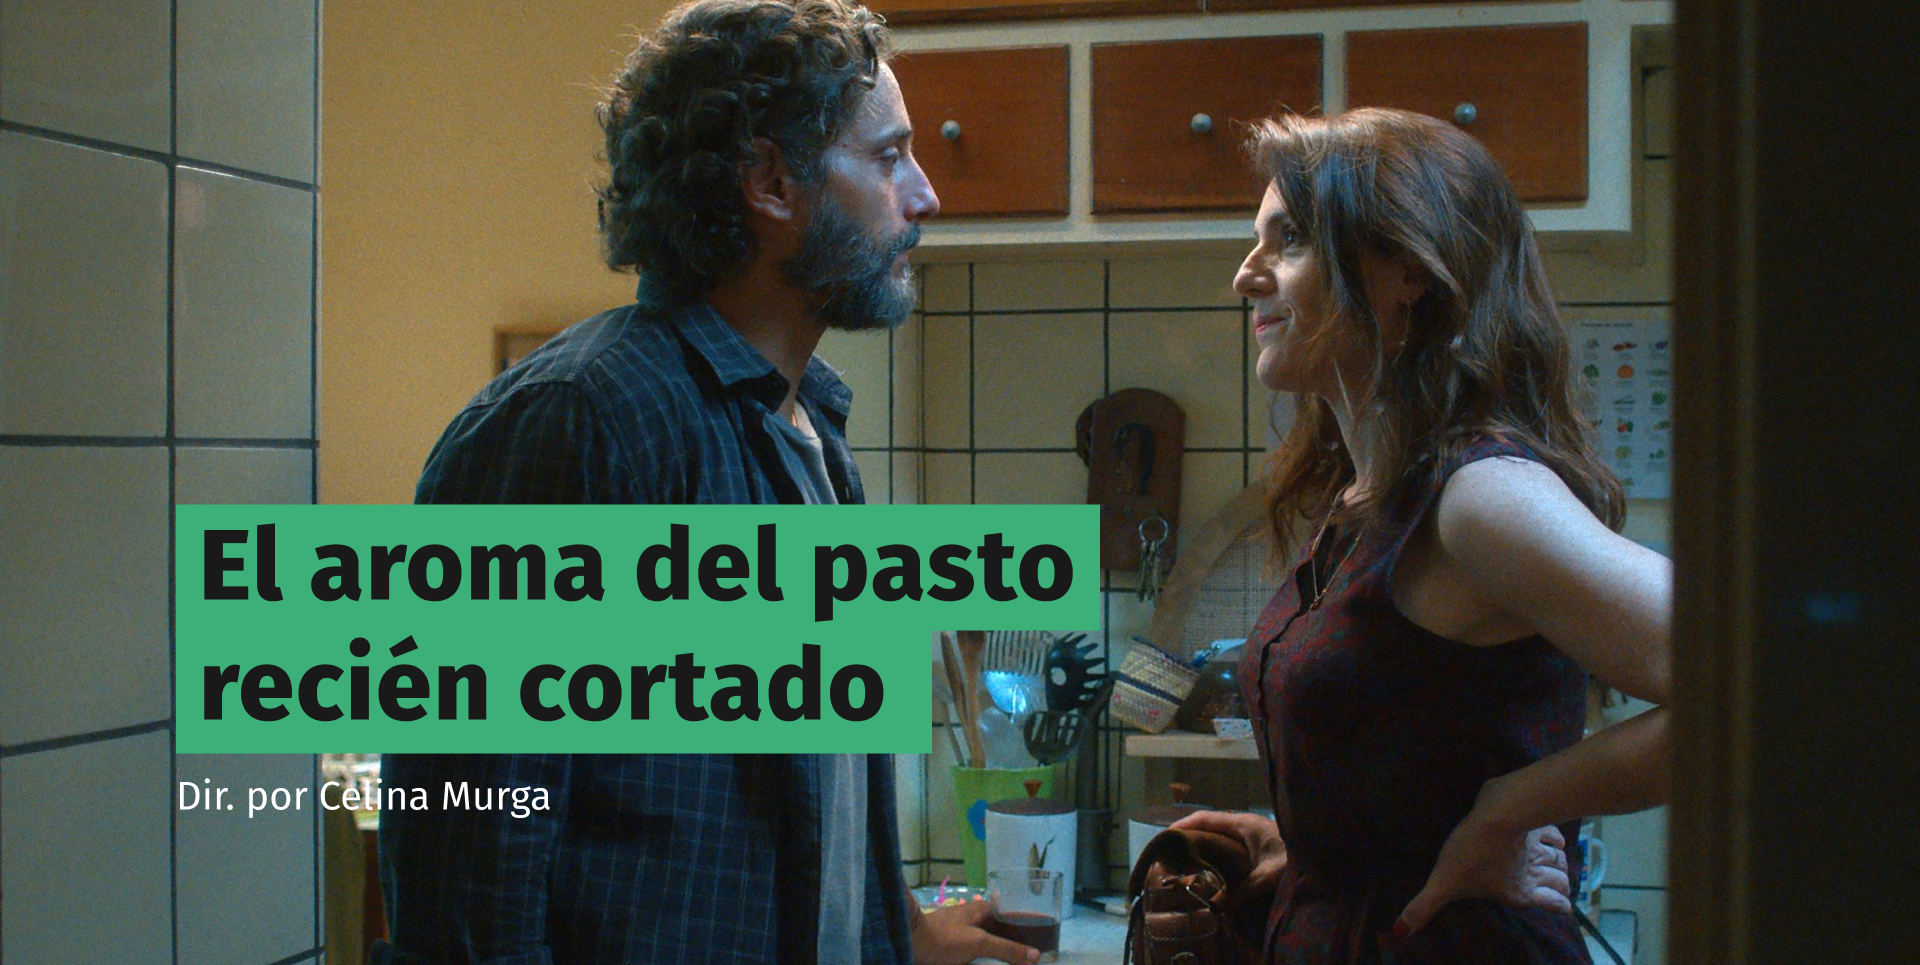
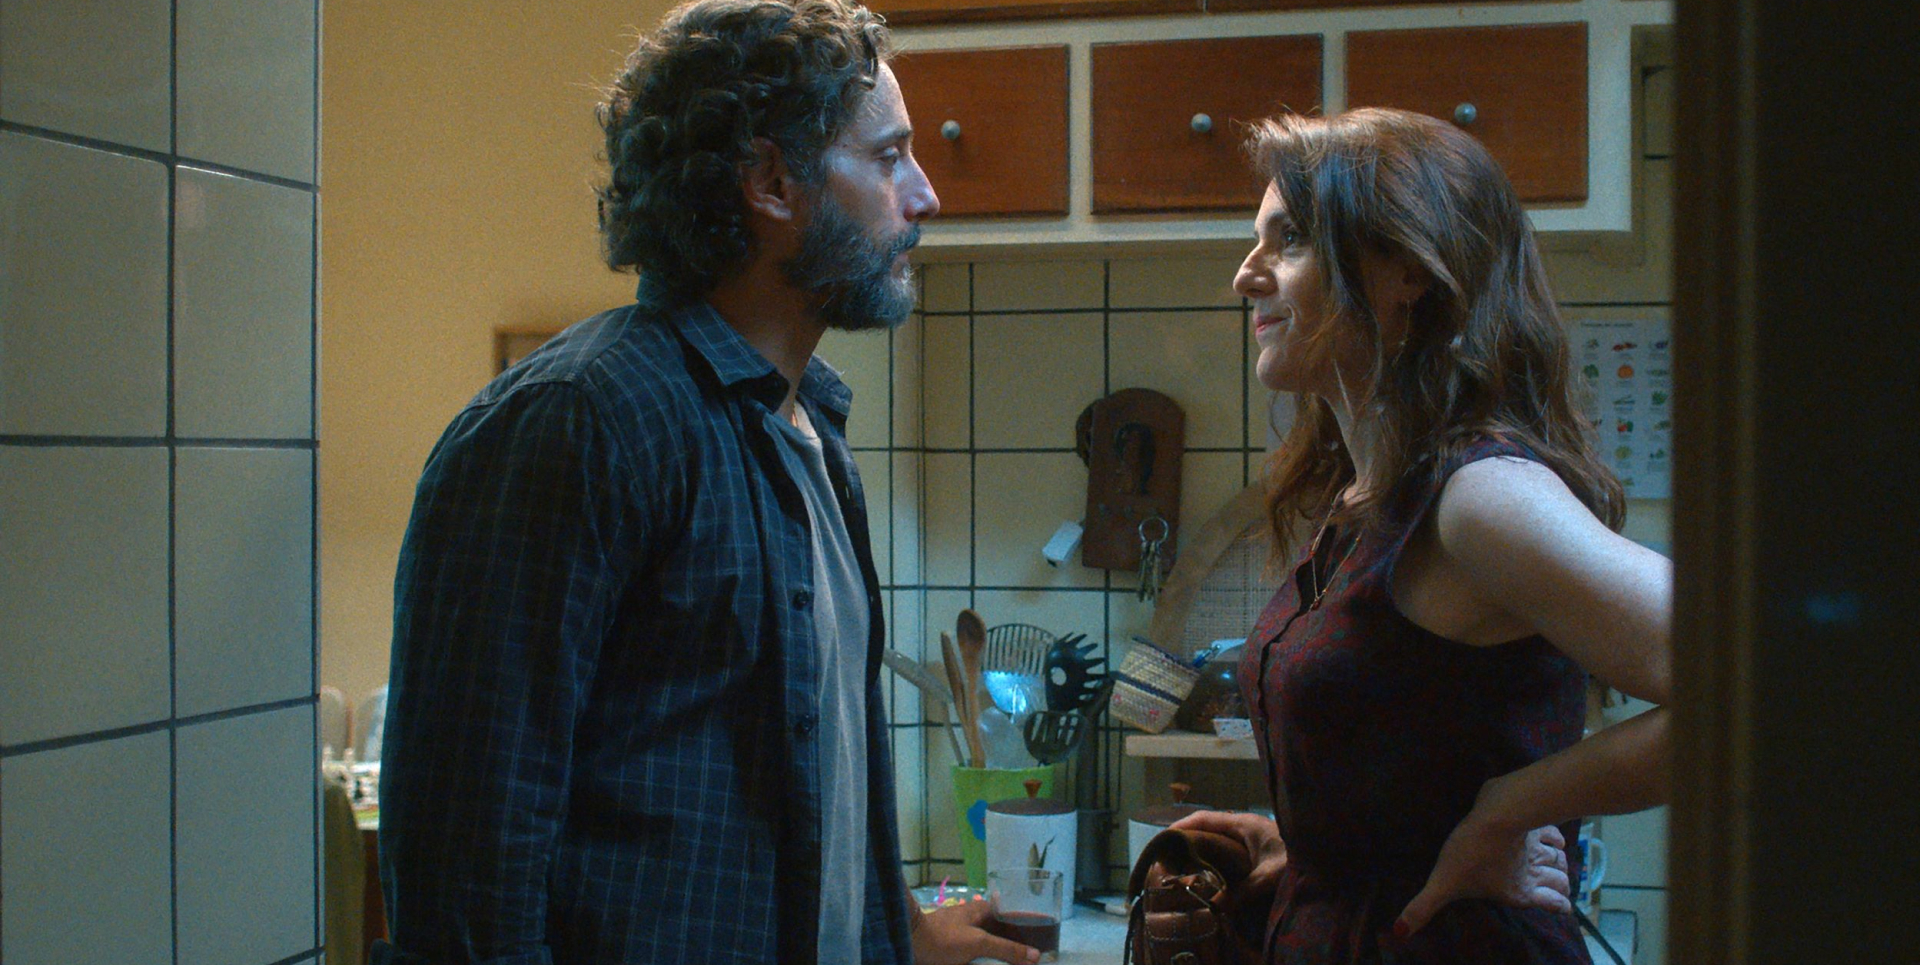
agrego slider index

Changed region(s): [[0.0938, 0.4974, 0.5938, 0.8394]]

diff --git a/estilos.css b/estilos.css
@@ -65,10 +65,19 @@ p {
 
 nav {
     background-color: #414141;
-    /* display: flex;
-    justify-content: space-between;
-    align-items: center;*/
     padding: 15px 100px;
+}
+
+.nav-desktop {
+    width: 100%;
+    display: flex;
+    flex-direction: row;
+    justify-content: space-between;
+    align-items: center;
+}
+
+.nav-mobile {
+    display: none;
 }
 
 nav ul li {
@@ -126,35 +135,112 @@ footer ul li {
 
 /* estrenos semanales */
 
+.banner-container {
+    width: 100vw;
+    max-height: fit-content;
+    position: relative; 
+}
+
 .slider {
     display: flex;
-    flex-direction: column;
-    align-items: center;
-    justify-content: center;
-}
-
-.slider img {
-    position: absolute;
-    z-index: 85;
-    width: 400px;
-}
-
-.slider p {
-    font-size: 20px;
-    flex-direction: column;
-    justify-content: center;
-    position: absolute;
-    z-index: 85;
-    margin-top: 170px;
-}
-
-.slider-img {
-    width: 100%;
-    height: 800px;
-    background-image: url(img/banner-principal/banner-cine-lorca.jpg);
-    background-size: cover;
-    background-position: center;
+    overflow: hidden;
     position: relative;
+    width: 100%;
+    height: auto;
+}
+
+.slider li {
+    position: relative;
+    flex: 0 0 100%;
+    opacity: 0;
+    transition: opacity 0.5s ease-in-out;
+    list-style: none;
+}
+
+.slider li img {
+    width: 100vw;
+    height: auto;
+    object-fit: cover;
+}
+
+.slider li:first-child {   
+    opacity: 1;
+}
+
+.slider li:target {   
+    opacity: 1;
+}
+
+#slider-content {
+    position: absolute;
+    z-index: 100;
+    display: flex;
+    flex-direction: column;
+    justify-content: center;
+    align-items: center;
+    text-align: center;
+    top: 50%;
+    left: 50%;
+    transform: translate(-50%, -50%)
+}
+
+#slider-content img {
+    max-width: fit-content;
+}
+
+#slider-content p {
+    font-size: 1.5em;
+    padding-top: 20px;
+}
+
+.texto-slider {
+    position: absolute;
+    z-index: 100;
+    display: flex;
+    flex-direction: column;
+    top: 70%;
+    left: 10%;
+}
+
+.texto-slider img {
+    max-width: fit-content;
+}
+
+.texto-slider p {
+    font-size: 1.5em;
+    padding-top: 20px;
+}
+
+.texto-slider h3 {
+    background-color: #3CB078;
+    color: var(--Negro, #1A1A1A);
+    font-family: Fira Sans;
+    font-size: 3em;
+    font-style: normal;
+    font-weight: 800;
+    line-height: normal;
+    letter-spacing: 2px;
+    padding: 10px;
+    width: fit-content;
+}
+
+.prev, .next {
+    position: absolute;
+    top: 50%;
+    transform: translateY(-50%);
+    padding: 0 10px;
+}
+
+.prev {
+    left: 10px;
+}
+
+.next {
+    right: 10px;
+}
+
+.flecha-banner {
+    max-width: fit-content;
 }
 
 .estrenos {
@@ -1061,18 +1147,6 @@ li {
     letter-spacing: 0.48px;
 }
 
-.nav-desktop {
-    width: 100%;
-    display: flex;
-    flex-direction: row;
-    justify-content: space-between;
-    align-items: center;
-}
-
-.nav-mobile {
-    display: none;
-}
-
 /* no pagina */
 
 .nopagina {
@@ -1110,6 +1184,10 @@ li {
 }
 
 @media only screen and (max-width: 1366px) {
+
+    .texto-slider {
+        top: 50%;
+    }
 
     .estrenos {
         padding: 8% 50px;
@@ -1199,6 +1277,20 @@ li {
 }
 
 @media only screen and (max-width: 900px) {
+
+    #slider-content P {
+        font-size: 1em;
+    }
+
+    .texto-slider p {
+        font-size: 1em;
+        padding-top: 10px;
+    }
+    
+    .texto-slider h3 {
+        font-size: 2em;
+    }
+
     .h-miembros {
         background-size: 90vw 40vh;
         justify-content: flex-start;
@@ -1299,6 +1391,10 @@ li {
     nav ul li {
         padding: 0px 10px;
     }
+    
+    nav ul li:hover {
+        border: none;
+    }
 
     .nopagina {
         height: 100vh;
@@ -1325,6 +1421,13 @@ li {
 }
 
 @media only screen and (max-width: 600px) {
+    #slider-content img {
+        max-width: 250px;
+    }
+
+    .texto-slider h3 {
+        font-size: 1.5em;
+    }
 
     .h-animation img {
         display: none;

diff --git a/index.html b/index.html
@@ -37,11 +37,45 @@
         </nav>
     </header>
     <main>
-        <section class="slider">
-            <img src="img/banner-principal/logo-cine-lorca.svg" width="300px" alt="logo cine lorca">
-            <p>¡Conocé nuestros estrenos!</p>
-            <div class="slider-img"></div>
-            <div class="slider-punto"></div>
+        <section class="banner-container">
+            <ul class="slider">
+                <li id="slide1">
+                    <div id="slider-content">
+                        <img src="img/banner-principal/logo-cine-lorca.svg" width="300px" height="auto" alt="logo cine lorca">
+                        <p>¡Conocé nuestros estrenos!</p>
+                    </div>
+                    <img src="img/banner-principal/banner-cine-lorca.jpg" alt="banner-cine-lorca">
+                    <a href="#slide4" class="prev"><img src="img/icons/web/home/flecha-izq-banner.svg" height="30px" class="flecha-banner"  alt="siguiente"></a>
+                    <a href="#slide2" class="next"><img src="img/icons/web/home/flecha-der-banner.svg" height="30px" class="flecha-banner" alt="anterior"></a>
+                </li>
+                <li id="slide2">
+                    <div class="texto-slider">
+                        <h3>El aroma del pasto<br> recién cortado</h3>
+                        <p>Dir. por Celina Murga</p>
+                    </div>
+                    <img src="img/banner-principal/banner-el-aroma-del-pasto.jpg" alt="el banner-el-aroma-del-pasto">
+                    <a href="#slide1" class="prev"><img src="img/icons/web/home/flecha-izq-banner.svg" height="30px" class="flecha-banner"  alt="siguiente"></a>
+                    <a href="#slide3" class="next"><img src="img/icons/web/home/flecha-der-banner.svg" height="30px" class="flecha-banner" alt="anterior"></a>
+                </li>
+                <li id="slide3">
+                    <img src="img/banner-principal/banner-el-jockey.jpg" alt="banner-el-jockey">
+                    <div class="texto-slider">
+                        <h3>El Jockey</h3>
+                        <p>Dir. por Luis Ortega</p>
+                    </div>
+                    <a href="#slide2" class="prev"><img src="img/icons/web/home/flecha-izq-banner.svg" height="30px" class="flecha-banner" alt="anterior"></a>
+                    <a href="#slide4" class="next"><img src="img/icons/web/home/flecha-der-banner.svg" height="30px" class="flecha-banner" alt="siguiente"></a>
+                </li>
+                <li id="slide4">
+                    <div class="texto-slider">
+                        <h3>Stella, una vida</h3>
+                        <p>Dir. por Kilian Riedhof</p>
+                    </div>
+                    <img src="img/banner-principal/banner-stella-una-vida.jpg" alt="banner-stella-una-vida">
+                    <a href="#slide3" class="prev"><img src="img/icons/web/home/flecha-izq-banner.svg" height="30px" class="flecha-banner" alt="anterior"></a>
+                    <a href="#slide1" class="next"><img src="img/icons/web/home/flecha-der-banner.svg" height="30px" class="flecha-banner" alt="siguiente"></a>
+                </li>
+            </ul>
         </section>
         <section class="estrenos" id="estrenos-semanales">
             <div class="prueba">
